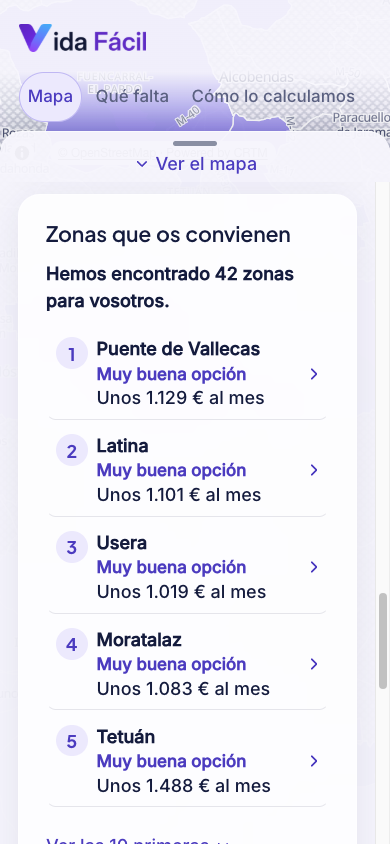
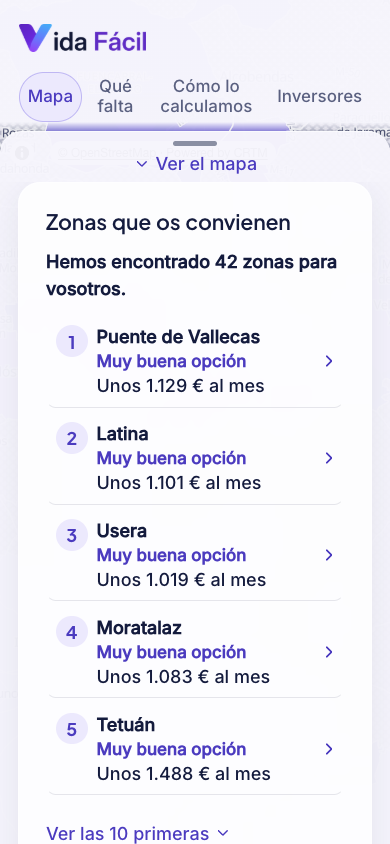
PITCH-003 C6 retaken after deploy-46; script follows today's web texts
- C6 (slide 4): the mobile list retaken in production (deploy-46,
  542283b8) at 390 x 844, the original size, with the «Inversores» tab,
  «Hemos encontrado 42 zonas» and the same five rows and prices; the
  pointer is moved away so no row is highlighted. Deck rebuilt: checks
  pass, slide 4 fits at 1920 x 1080.
- Script block 3: «en qué fase está su ámbito» instead of «si su
  urbanización está terminada»; the notes quote the phases the parcel
  sheet shows today («Obras de urbanización: finalizado · VEDA: en fase
  de edificación… (hace falta licencia)»).
- Script block 4: the notes quote today's price note («Precio de los
  contratos de alquiler de 2024: un anuncio de hoy suele pedir más.»),
  and the spoken line says «suele pedir más». 545 spoken words.
- deck.html: the comment on the API and MCP line says the MCP also works
  remotely now (D-255, deploy-46).

diff --git a/pitch/deck/deck.html b/pitch/deck/deck.html
@@ -134,7 +134,7 @@
         <li>Pagarán las empresas: plan empresarial e informes a medida.</li>
         <li>Solo zonas, nunca datos de personas.</li>
         <li>Coste de infraestructura: 0 € hoy; unos 45 $/mes para poder cobrar.</li>
-        <!-- 23 nov: el MCP solo funciona en local; antes, «Código abierto, y API y MCP gratis.» -->
+        <!-- 23 nov: el MCP ya funciona también en remoto, sin clave (D-255, deploy-46); antes, «Código abierto, y API y MCP gratis.» -->
         <li>API y MCP abiertos y gratuitos, sin clave.</li>
       </ul>
       <!-- 23 nov: la línea de inversores pasa a la columna de utilidad; aquí, la de la IA (formación del 5 nov: «yo necesito el número») -->

diff --git a/pitch/guion.md b/pitch/guion.md
@@ -19,7 +19,7 @@
   - «cada falta lleva su probabilidad», y no «nunca inventamos una falta»: sin corrección por comparaciones múltiples, una falta puede salir por azar (pregunta 46);
   - «viven en 3 distritos donde faltan escuelas infantiles», para que no se oiga como «niños sin escuela»;
   - «cumplen lo que piden 42 zonas», y no «les convienen»: 12 de las 42 salen «Poco recomendable»;
-  - el precio: «es el precio de los contratos de 2024; un anuncio de hoy pide más» (pregunta 57);
+  - el precio: «es el precio de los contratos de 2024; un anuncio de hoy suele pedir más», como dice la tarjeta desde el deploy-46 (pregunta 57);
   - «API y MCP abiertos y gratuitos, sin clave»: desde el 23 nov el MCP funciona en remoto (D-255). Comprobar en producción antes de decirlo.
 - **Farmacias:** no se presume de ellas en la parte de personas (segunda prueba de P6, 23 nov: a un ciudadano no le sirve el dato; la web las quita de la tarjeta de zona si no se piden). En «Qué falta», para ayuntamientos, se quedan.
 - **Capturas:** C5 (slide 1), C1 (slide 4) y C3 (slide 3) se rehacen después del despliegue del 23 nov (`pitch/slides.md`, «Capturas necesarias»). Hasta entonces enseñan textos anteriores, como el lema viejo y «35 conjuntos».
@@ -28,13 +28,13 @@
 |---|---|---|---|---|---|---|
 | 1 | 0:00–0:30 | 30 s | Slide 1 → slide 2 | Tres preguntas: ayuntamiento, promotor y API; sin scraping | 62 | 29 s |
 | 2 | 0:30–1:45 | 75 s | Demo: «Qué falta» | Dónde invertir primero y Puente de Vallecas | 108 | 50 s + unos 12 s de clics |
-| 3 | 1:45–2:45 | 60 s | Demo: «Inversores» | La ficha de una parcela exacta: Méndez Álvaro 47 | 88 | 41 s + unos 15 s de bajar por la ficha |
-| 4 | 2:45–3:40 | 55 s | Demo: «Mapa» | La base: la zona que te conviene, frente a lo de 2024 | 108 | 50 s + unos 10 s de clics |
+| 3 | 1:45–2:45 | 60 s | Demo: «Inversores» | La ficha de una parcela exacta: Méndez Álvaro 47 | 89 | 41 s + unos 15 s de bajar por la ficha |
+| 4 | 2:45–3:40 | 55 s | Demo: «Mapa» | La base: la zona que te conviene, frente a lo de 2024 | 109 | 50 s + unos 10 s de clics |
 | 5 | 3:40–4:35 | 55 s | Slide 2 → slide 3 | Datos, MELODA, la IA, la API y quién paga | 133 | 61 s |
 | 6 | 4:35–5:00 | 25 s | Slide 4 | Pruebas con personas y cierre con el lema | 44 | 20 s |
-| **Total** | | **300 s** | | | **543** | **251 s + unos 41 s de clics y cambios = unos 8 s de margen** |
+| **Total** | | **300 s** | | | **545** | **252 s + unos 41 s de clics y cambios = unos 7 s de margen** |
 
-**Recuento del 23 nov, tras la revisión del #122** (comando de arriba): b1 62, b2 108, b3 88, b4 108, b5 133 y b6 44; 543 palabras, dentro de las 500–550 que pidió Mariano. El bloque 4 atribuye lo de 2024 a la formación (+6 palabras, R-06) y el bloque 5 pierde «Cada conjunto pasa nuestro control de calidad.» (lo dice la slide 2). El margen baja de unos 26 s a unos 8 s porque hay un recorrido más (la parcela) y la frase de MELODA, que pasó el coordinador con las cifras de `pitch/meloda_cm_snapshot.json`. Los clics son una estimación: se miden en los ensayos. Si no llega, se quita, por este orden:
+**Recuento del 23 nov, tras el deploy-46** (comando de arriba): b1 62, b2 108, b3 89, b4 109, b5 133 y b6 44; 545 palabras, dentro de las 500–550 que pidió Mariano. Tras el deploy-46, el bloque 3 dice «en qué fase está su ámbito» (antes, «si su urbanización está terminada»: +1 palabra) y el bloque 4, «un anuncio de hoy suele pedir más», como la tarjeta (+1). Antes, tras la revisión del #122: 543. El bloque 4 atribuye lo de 2024 a la formación (+6 palabras, R-06) y el bloque 5 pierde «Cada conjunto pasa nuestro control de calidad.» (lo dice la slide 2). El margen baja de unos 26 s a unos 8 s porque hay un recorrido más (la parcela) y la frase de MELODA, que pasó el coordinador con las cifras de `pitch/meloda_cm_snapshot.json`. Los clics son una estimación: se miden en los ensayos. Si no llega, se quita, por este orden:
 1. «Una de ellas repitió esta semana: «ha mejorado un montón».», del bloque 6 (9 palabras, unos 4 s; la cita sigue en la slide 3);
 2. «Y, para quien busca casa, la zona que le conviene.», del bloque 1 (10 palabras, unos 5 s; el bloque 4 ya lo cuenta).
 
@@ -109,27 +109,27 @@ Empiezo por el ayuntamiento. Abro «Qué falta»: en toda la región, [más de v
 
 **Lo que se lee** (API de producción, 21 nov, `parcel_2122202VK4722A`; F-B cambia hoy la ficha, así que el 25 nov se vuelve a mirar):
 - edificabilidad: 13.121 m² de «RESIDENCIAL VIVIENDA COLECTIVA», «VEDA Madrid (Ayuntamiento de Madrid), julio de 2026», marcada «Dato»;
-- el ámbito APR.02.06, con sus cuatro fases «Finalizado», y el enlace a la ficha oficial;
+- el ámbito APR.02.06, «Méndez Álvaro Norte I», con el enlace a la ficha oficial y sus fases, según el Ayuntamiento a 1 de julio de 2026: «Proyecto de urbanización: finalizado · Obras de urbanización: finalizado · VEDA: en fase de edificación, según el Ayuntamiento: no quiere decir que se pueda construir ya (hace falta licencia)» (producción, 23 nov, deploy-46);
 - servicios: unas 164 viviendas, al menos 499,1 kW, marcado «Supuesto», con el aviso del centro de transformación;
 - el contexto de demanda del barrio de Atocha (piloto de la M-40): quién vive, precios, qué falta y suelo.
 - **No se dice en voz alta la cifra del suelo** (lo máximo que se podría pagar). El jurado simulado (A1) la vio poco creíble sin los costes que deja fuera; se enseña solo si preguntan, con lo que excluye (pregunta 6).
 
 <!-- habla:b3:inicio -->
-Ahora, un promotor busca una parcela de Madrid capital: Méndez Álvaro cuarenta y siete. La ficha le da su planeamiento, con el enlace oficial; [trece mil] metros edificables de vivienda que publica el Ayuntamiento; si su urbanización está terminada y la potencia eléctrica que pediría; y al lado, la demanda de su zona: quién vive, a qué precios y qué le falta. Con eso calcula cuánto podría pagar por el suelo, con cada supuesto a la vista. Es un primer filtro de minutos, antes de pagar un estudio.
+Ahora, un promotor busca una parcela de Madrid capital: Méndez Álvaro cuarenta y siete. La ficha le da su planeamiento, con el enlace oficial; [trece mil] metros edificables de vivienda que publica el Ayuntamiento; en qué fase está su ámbito y la potencia eléctrica que pediría; y al lado, la demanda de su zona: quién vive, a qué precios y qué le falta. Con eso calcula cuánto podría pagar por el suelo, con cada supuesto a la vista. Es un primer filtro de minutos, antes de pagar un estudio.
 <!-- habla:b3:fin -->
 
 | # | Acción | Qué tiene que verse | Si falla |
 |---|---|---|---|
 | 3.1 | Pestaña 3: señalar la cabecera de la ficha | La pestaña «Inversores» marcada, Méndez Álvaro 47, barrio de Atocha y el aviso «Esto es un primer filtro de minutos, gratis y con fuentes…» | Si no carga, buscar `2122202VK4722A` en «Busca tu parcela» y seguir hablando: tarda unos 11 s |
 | 3.2 | Bajar a «2. Planeamiento» y «3. Edificabilidad» | El ámbito APR.02.06 con el enlace oficial, y «13.121 m²» marcado «Dato», de VEDA | Leer «[trece mil]» de donde esté |
-| 3.3 | Bajar a «4. Servicios y suministros» | «Finalizado» en las obras de urbanización y la potencia, «Supuesto» | Saltar «si su urbanización…» |
+| 3.3 | Señalar las fases del ámbito, en «2. Planeamiento», y bajar a «4. Servicios y suministros» | «Obras de urbanización: finalizado · VEDA: en fase de edificación…» y la potencia, «Supuesto» | Saltar «en qué fase está su ámbito…» |
 | 3.4 | Bajar a «5. Quién vive en el barrio» y señalar «¿Sale la promoción?» sin leer cifras | El contexto de demanda y la calculadora con sus supuestos | — |
 
 **Fuentes de lo que se dice:**
 - «Busca una parcela de Madrid capital»: D-250 §6 (`/inversores` abre con «Busca tu parcela», por referencia catastral, dirección o clic en el mapa; un punto de fuera da «Ese punto está fuera de Madrid capital»).
 - «Su planeamiento, con el enlace oficial»: el Ayuntamiento, con «Información urbanística sin valor jurídico» (D-250, D-252 §3).
 - «Metros edificables de vivienda que publica el Ayuntamiento»: VEDA (`ayto_edificabilidad_remanente_ambitos`); si la parcela no tiene cifra oficial, la ficha dice «Supuesto» o «Sin dato» (D-252 §1–4).
-- «Si su urbanización está terminada y la potencia eléctrica que pediría»: D-253 §1–5. Ningún dato abierto dice si la parcela tiene los servicios; se da el estado de la urbanización y una potencia mínima supuesta.
+- «En qué fase está su ámbito y la potencia eléctrica que pediría»: las fases que publica el Ayuntamiento (D-252 §3) y D-253 §1–5. Desde el deploy-46 la ficha añade «VEDA: en fase de edificación… no quiere decir que se pueda construir ya (hace falta licencia)», así que no se dice que la parcela esté lista para construir. Ningún dato abierto dice si la parcela tiene los servicios; se da el estado de la urbanización y una potencia mínima supuesta.
 - «La demanda de su zona»: la ficha del barrio de D-248 (completa en los 108 barrios del piloto dentro de la M-40; fuera, con las cifras del distrito o de la ciudad, D-250 §5). No es todavía el cruce con la vivienda que le falta a la zona (pregunta 60).
 - «Cuánto podría pagar por el suelo»: sin precio del suelo, la calculadora da lo máximo que se podría pagar; con él, el semáforo (`viability-0.2`, D-252 §6). Cada supuesto va marcado.
 - «Un primer filtro de minutos, antes de pagar un estudio»: el aviso de la ficha (D-253 §8; pregunta 61).
@@ -153,11 +153,11 @@ Ahora, un promotor busca una parcela de Madrid capital: Méndez Álvaro cuarenta
 - «Hemos encontrado 42 zonas para vosotros.»; la leyenda cuenta 42 que cumplen todo, 157 que no y 0 sin datos, de las 199 zonas (178 municipios y los 21 distritos de Madrid);
 - todas cumplen lo que pide la familia; el % dice cuánto le conviene todo lo demás: 12 «Muy buena opción», 5 «Buena opción», 13 «Opción regular» y 12 «Poco recomendable». Por eso se dice «cumplen lo que piden», no «les convienen»;
 - arriba, Puente de Vallecas y Latina, las dos «Muy buena opción · 94 %»; la web pone 1.ª a Puente de Vallecas porque tiene más cerca los servicios del día a día;
-- la tarjeta de Puente de Vallecas: «Unos 1.129 € al mes» («Precio orientativo»), «Colegio con primaria a unos 4 min andando», «41 min en transporte público hasta Paseo de la Castellana (Azca), llegando a las 9:00» y «No le falta nada de lo que buscáis.»;
+- la tarjeta de Puente de Vallecas: «Unos 1.129 € al mes» y, debajo, «Precio de los contratos de alquiler de 2024: un anuncio de hoy suele pedir más.» (desde el deploy-46; antes, «Precio orientativo»), «Colegio con primaria a unos 4 min andando», «41 min en transporte público hasta Paseo de la Castellana (Azca), llegando a las 9:00» y «No le falta nada de lo que buscáis.»;
 - el precio es el de los contratos firmados en 2024 (Agencia Tributaria, D-228): en varias zonas baratas, un anuncio de hoy pide entre 1,28 y 1,33 veces esa cifra (pregunta 57).
 
 <!-- habla:b4:inicio -->
-Y la base, para quien busca casa. En la formación nos contaron que lo que ganó en 2024 daba pisos sacados con scraping, con el ambulatorio y el metro cercanos. Nosotros lo hacemos en los ciento setenta y nueve municipios, solo con datos oficiales, con el trayecto al trabajo y con lo que le falta. Una pareja con dos hijos, mil quinientos euros y trabajo en la Castellana: cumplen lo que piden [cuarenta y dos] zonas. La primera: [colegio a cuatro minutos], [cuarenta y un minutos al trabajo] y [unos mil ciento veintinueve euros]: es el precio de los contratos de 2024; un anuncio de hoy pide más.
+Y la base, para quien busca casa. En la formación nos contaron que lo que ganó en 2024 daba pisos sacados con scraping, con el ambulatorio y el metro cercanos. Nosotros lo hacemos en los ciento setenta y nueve municipios, solo con datos oficiales, con el trayecto al trabajo y con lo que le falta. Una pareja con dos hijos, mil quinientos euros y trabajo en la Castellana: cumplen lo que piden [cuarenta y dos] zonas. La primera: [colegio a cuatro minutos], [cuarenta y un minutos al trabajo] y [unos mil ciento veintinueve euros]: es el precio de los contratos de 2024; un anuncio de hoy suele pedir más.
 <!-- habla:b4:fin -->
 
 | # | Acción | Qué tiene que verse | Si falla |

diff --git a/pitch/slides.md b/pitch/slides.md
@@ -11,7 +11,7 @@ Las 4 slides que piden las bases (§8, resumen en `docs/09_datamad/24_bases_ofic
   - la API abierta;
   - todo con datos abiertos descargados de sus portales, sin scraping.
 
-  El buscador para personas queda como la base, comparado en voz alta con lo de 2024: los 179 municipios, sin scraping, con el trayecto al trabajo y con «qué falta». Las 4 slides siguen el formato de las bases. Lema nuevo: «La zona que te conviene, y lo que le falta». El guion, en `pitch/guion.md` (543 palabras).
+  El buscador para personas queda como la base, comparado en voz alta con lo de 2024: los 179 municipios, sin scraping, con el trayecto al trabajo y con «qué falta». Las 4 slides siguen el formato de las bases. Lema nuevo: «La zona que te conviene, y lo que le falta». El guion, en `pitch/guion.md` (545 palabras).
 
 > Las decisiones del 11 nov están registradas como D-199 a D-207 (`docs/00_index/01_decisions_log.md`). El brief de diseño (`DISENO_VIDA_FACIL.md`, adoptado por D-201) sigue fuera del repo: se cita como documento interno, no como evidencia pública.
 
@@ -251,7 +251,7 @@ Versión con buscador (la que vale):
 
 **Fuentes en la slide:** ninguna cifra nueva salvo las 8 personas (relato de la slide 3). Si la captura muestra cifras, son las de la API en ese momento.
 
-**C1 rehecha el 18 nov** (D, producción con `55651c2`, `pitch/capturas/C1.png`): el caso de ejemplo con la tarjeta esencial de Puente de Vallecas («Muy buena opción», «Unos 1.129 € al mes», sus minutos a pie y «No le falta nada de lo que buscáis.»), el contorno de la zona en el mapa y «¿Dónde?» en «Tu búsqueda» (D-238). Marcadores (`.s4 .m1`–`.m3`): 1 en «Tu búsqueda» (`top: 340px`), 2 en la cabecera de la tarjeta (`top: 136px`) y 3 en «No le falta nada de lo que buscáis.» (`top: 428px`). **C6 rehecha el 18 nov** a 390 × 844 (`pitch/capturas/C6.png`): la lista del móvil, «Zonas que os convienen», con «Hemos encontrado 42 zonas para vosotros.» y 5 filas con la zona, su banda y su precio al mes.
+**C1 rehecha el 18 nov** (D, producción con `55651c2`, `pitch/capturas/C1.png`): el caso de ejemplo con la tarjeta esencial de Puente de Vallecas («Muy buena opción», «Unos 1.129 € al mes», sus minutos a pie y «No le falta nada de lo que buscáis.»), el contorno de la zona en el mapa y «¿Dónde?» en «Tu búsqueda» (D-238). Marcadores (`.s4 .m1`–`.m3`): 1 en «Tu búsqueda» (`top: 340px`), 2 en la cabecera de la tarjeta (`top: 136px`) y 3 en «No le falta nada de lo que buscáis.» (`top: 428px`). **C6 rehecha el 18 nov** a 390 × 844 (`pitch/capturas/C6.png`): la lista del móvil, «Zonas que os convienen», con «Hemos encontrado 42 zonas para vosotros.» y 5 filas con la zona, su banda y su precio al mes. **Desde el 23 nov, C1 y C6 son las del deploy-46** (P, `542283b8`; ver «Capturas necesarias»), con el lema nuevo y la pestaña «Inversores»; los marcadores 2 y 3 se movieron con la tarjeta.
 
 ---
 
@@ -287,7 +287,7 @@ Fuente única: `DISENO_VIDA_FACIL.md`. Los valores de la tabla son los que B ya 
 Se hacen el 24 nov sobre la demo desplegada, con el caso demo precargado, a 1440 × 900 (escritorio) y 390 × 844 (móvil) y con densidad 2×. Se guardan en `pitch/capturas/` con estos nombres. B puede adelantarlas en `evidence/map-004/<fecha>/`.
 
 `pitch/deck/build.py` usa la captura de `pitch/capturas/` si hay una con el mismo id y, si no, la de la evidencia:
-- **C1, C2, C3, C5 y C6** están en `pitch/capturas/`. C2 y C6 las rehízo D en producción el 18 nov (`55651c2`); C1, C3 y C5, P el 23 nov, con el deploy-46 (`542283b8`).
+- **C1, C2, C3, C5 y C6** están en `pitch/capturas/`. C2 la rehízo D en producción el 18 nov (`55651c2`); C1, C3, C5 y C6, P el 23 nov, con el deploy-46 (`542283b8`).
 - **C4 y C7** son de B (`evidence/map-004/2026-11-11/prod_*` y, la C4, `evidence/map-004/2026-11-12/deck/`). La C5 de B del 11 nov queda en la evidencia como respaldo de `build.py`. C4 y C7 no van en ninguna slide: quedan de reserva.
 
 **Recaptura tras gap-0.3 (12 nov).** Las del 11 nov son anteriores a gap-0.3 y D-216. B ya rehízo C3 y C4 (PR #17, `evidence/map-004/2026-11-12/deck/`, en local a 1440 px con datos reales y las mismas cifras que producción), y el deck las toma de ahí (el #17 se fusionó el 12 nov). Con ellas y `DECK_INTEGRANTES`, `build.py --final` genera sin fallos (12 nov). Las demás valen como borrador, pero se rehacen antes del 24 nov:
@@ -298,7 +298,7 @@ Se hacen el 24 nov sobre la demo desplegada, con el caso demo precargado, a 1440
 | C4 | Hecha por B: `deck_c4_puente_de_vallecas_escuelas_infantiles_1440.png`, la fila de escuelas infantiles de **Puente de Vallecas** en FALTA (2,8 frente a 4,9) con «A pie: 6 min». El hueco enseña las dos cifras | `/que-falta?zona=distrito/2807913` |
 | C5 | Rehecha por P el 23 nov con el deploy-46 (`pitch/capturas/C5.png`): «Lo que le falta a esta zona» con escuelas infantiles y centros de mayores JUSTO y colegios CUBIERTO, y la pestaña «Inversores» | `/zona/distrito/2807905` (Chamartín en 3D) |
 | C1, C2 | Rehechas por D el 18 nov en producción (`55651c2`, `pitch/capturas/`): C1, el mapa con la tarjeta esencial de Puente de Vallecas («Muy buena opción», «Unos 1.129 € al mes» y «No le falta nada de lo que buscáis.»); C2, «Zonas que os convienen» con Puente de Vallecas y Latina, «Muy buena opción · 94 %» | Portada → «Ejemplo: pareja con 2 hijos…», la lista y la tarjeta de la 1.ª |
-| C6 | Rehecha por D el 18 nov en producción a 390 × 844 (`pitch/capturas/C6.png`): la lista del móvil con 5 filas esenciales | Portada → «Ejemplo: pareja con 2 hijos…», en el móvil |
+| C6 | Rehecha por P el 23 nov en producción, con el deploy-46 (`542283b8`), a 390 × 844 (`pitch/capturas/C6.png`): la cabecera con la pestaña «Inversores» y la lista del móvil con 5 filas esenciales | Portada → «Ejemplo: pareja con 2 hijos…», en el móvil |
 | C7 | Desde el 18 nov no va en la slide 3: su sitio lo ocupa la línea del pie de «Viabilidad» (desde el 19 nov, la versión para inversores). Queda de reserva | `/como-lo-calculamos` |
 
 | Id | Pantalla y estado | Tamaño | Slide | Estado |
@@ -308,7 +308,7 @@ Se hacen el 24 nov sobre la demo desplegada, con el caso demo precargado, a 1440
 | C3 | Bloque «¿Queréis ver más zonas?» con cifras reales de la API | 1440 | 3 | **Rehecha por P en producción el 23 nov** (deploy-46, `542283b8`; `pitch/capturas/C3.png`), abierta con «Ver todas las opciones»: «Hemos encontrado 42 zonas para vosotros», «+5 min a pie hasta colegio con primaria · saldrían 49 más: 91 zonas en total», «+150 €/mes · saldrían 3 más: 45 zonas en total» y «Datos: 39 conjuntos…» en el pie. El recorte (x 1010–1380, y 100–372) enseña el titular y la primera opción |
 | C4 | Pestaña «Qué falta» de la zona del ejemplo (**Puente de Vallecas**): 6 filas con valor, referencia, confianza, minutos a pie y datasets enlazados | 1440 | 3 | Hecha por B el 12 nov (`evidence/map-004/2026-11-12/deck/deck_c4_puente_de_vallecas_escuelas_infantiles_1440.png`, PR #17; la página entera, en `deck_c4_puente_de_vallecas_que_falta_1440.png`). El hueco enseña las dos cifras de la fila de escuelas infantiles: 2,8 en Puente de Vallecas y 4,9 en los otros municipios urbanos |
 | C5 | Zona en 3D: inclinación de unos 60°, contorno violeta y etiquetas de colegios, centros de salud y estaciones | 1440 | 1 | **Rehecha por P en producción el 23 nov** (deploy-46, `542283b8`; `pitch/capturas/C5.png`): Chamartín en 3D, con su contorno violeta y las etiquetas de estación, centro de salud, metro y colegio; la pestaña «Inversores»; y «Lo que le falta a esta zona». El recorte empieza en x 525 y arriba, con las pestañas. Sustituye a la de B del 11 nov (`evidence/map-004/2026-11-11/prod_c5_chamartin_3d_desktop.png`) |
-| C6 | Móvil: la lista «Zonas que os convienen» con sus filas esenciales | 390 | 4 | Rehecha por D en producción el 18 nov (`55651c2`, `pitch/capturas/C6.png`): «Hemos encontrado 42 zonas para vosotros.» y 5 filas con la zona, «Muy buena opción» y «Unos … € al mes». Sustituye a la de B con Chamartín en 3D (`prod_c5_chamartin_3d_mobile.png`), del 11 nov |
+| C6 | Móvil: la lista «Zonas que os convienen» con sus filas esenciales | 390 | 4 | **Rehecha por P en producción el 23 nov** (deploy-46, `542283b8`; `pitch/capturas/C6.png`, 390 × 844, el mismo tamaño que la anterior): la cabecera con «Mapa», «Qué falta», «Cómo lo calculamos» e «Inversores», «Hemos encontrado 42 zonas para vosotros.» y 5 filas, de Puente de Vallecas a Tetuán, todas «Muy buena opción», con unos 1.129, 1.101, 1.019, 1.083 y 1.488 € al mes (las mismas cifras que la del 18 nov). El puntero se aparta antes de capturar, para que ninguna fila salga resaltada |
 | C7 | «Cómo lo calculamos» o panel de procedencia de un dato, con el enlace a la ficha del portal | 1440 | — (reserva) | Hecha por B en producción (`prod_c7_como_lo_calculamos_desktop.png`). **Desde el 18 nov no va en la slide 3:** el siguiente paso no cabía con ella en «Viabilidad», y a 100 px de alto no se leía. Además enseña un texto anterior de «Cómo lo calculamos». Si vuelve, se rehace en producción |
 | C8 | Inversores, «Busca tu parcela» en el móvil: la cabecera con la pestaña «Inversores» marcada (D-251), «Plan Inversor (acceso libre durante el concurso)», el título, la frase de lo que hace y la caja de la referencia catastral | 390 | — (reserva) | **Rehecha por D en producción el 20 nov** (con D-253, despliegue de `a669057`): `pitch/capturas/C8.png`, 780 × 1.688 (390 px a 2×). Para las preguntas 6 y 60. La línea del pie de la slide 3 va sin captura: no cabe con ella |
 | C9 | Inversores, el arriba de la ficha de Méndez Álvaro 47 en el móvil: la pestaña «Inversores», barrio de Atocha (distrito de Arganzuela), la referencia catastral, el aviso «Esto es un primer filtro de minutos, gratis y con fuentes…», «Guardar como PDF» y «Llévate esta ficha (PDF) a tu consultora…» | 390 | — (reserva) | **Rehecha por D en producción el 20 nov:** `pitch/capturas/C9.png`, 780 × 1.688. Para las preguntas 6 y 61. Una de las 4 parcelas de demostración |
